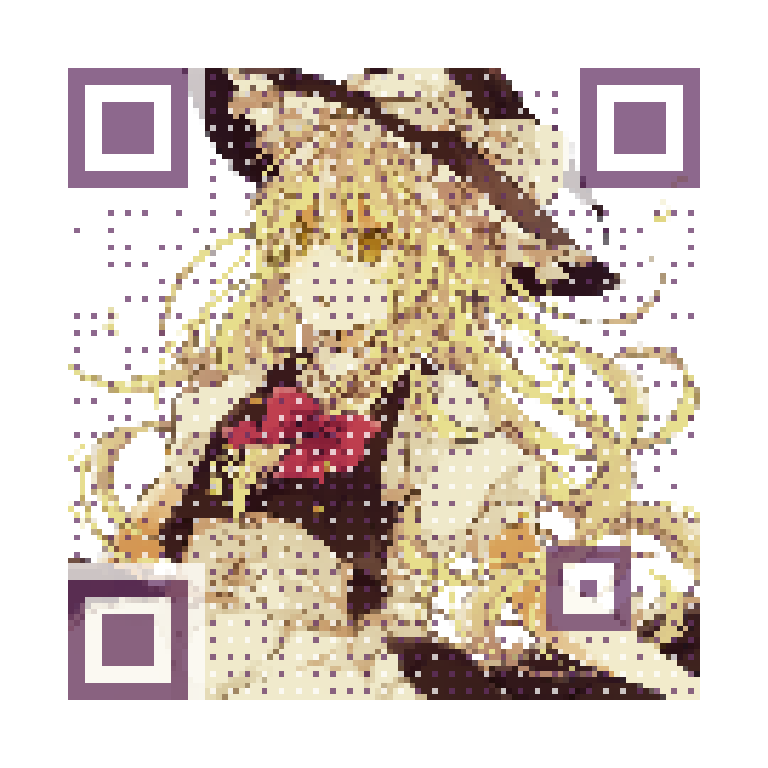
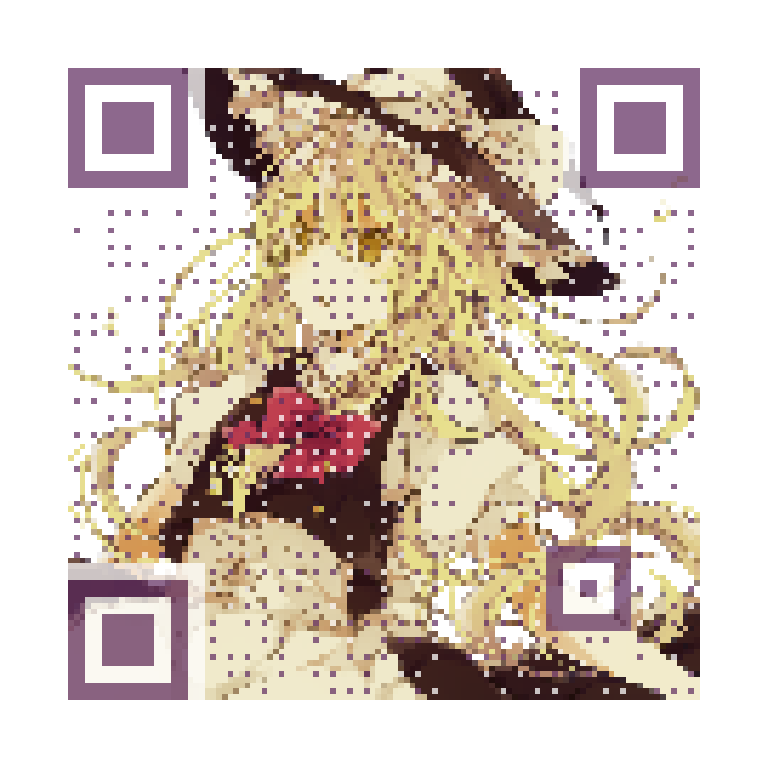
make image clear

diff --git a/CuteR/CuteR.py b/CuteR/CuteR.py
@@ -26,7 +26,7 @@ def color_replace(image, color):
 
 def produce(txt,img,ver=5,err_crt = qrcode.constants.ERROR_CORRECT_H,bri = 1.0, cont = 1.0,\
         colourful = False, rgba = (0,0,0,255),pixelate = False):
-    """
+    """Produce QR code
 
     :txt: QR text
     :img: Image
@@ -66,17 +66,21 @@ def produce(txt,img,ver=5,err_crt = qrcode.constants.ERROR_CORRECT_H,bri = 1.0, 
         else:
             img_enh = img_enh.convert('L').convert('RGBA')
     img_frame = img_qr
-
+    img_enh = img_enh.resize((img_size*10,img_size*10))
+    img_enh_l = img_enh.convert("L").resize((img_size,img_size))
+    img_frame_l = img_frame.convert("L")
 
     for x in range(0,img_size):
         for y in range(0,img_size):
-            if (x%3 ==1 and  y%3 == 1):
-                continue
             if x < 24 and (y < 24 or y > img_size-25):
                 continue
             if x > img_size-25 and (y < 24 ):
                 continue
-            img_frame.putpixel((x+12,y+12),(255,0,0,0))
+            if (x%3 ==1 and  y%3 == 1):
+                if (img_frame_l.getpixel((x+12,y+12)) > 70 and img_enh_l.getpixel((x,y)) < 185)\
+                        or (img_frame_l.getpixel((x+12,y+12)) < 185 and img_enh_l.getpixel((x,y)) > 70) :
+                    continue
+            img_frame.putpixel((x+12,y+12),(0,0,0,0))
     pos = qrcode.util.pattern_position(qr.version)
     img_qr2 = qr.make_image().convert("RGBA")
     if colourful and ( rgba != (0,0,0,0) ):
@@ -92,7 +96,6 @@ def produce(txt,img,ver=5,err_crt = qrcode.constants.ERROR_CORRECT_H,bri = 1.0, 
                 img_frame.paste(img_tmp,rect)
 
     img_res = Image.new("RGBA",(img_frame.size[0]*10,img_frame.size[1]*10),(255,255,255,255))
-    img_enh = img_enh.resize((img_size*10,img_size*10))
     img_res.paste(img_enh,(120,120),img_enh)
     img_frame = img_frame.resize((img_frame.size[0]*10,img_frame.size[1]*10))
     img_res.paste(img_frame,(0,0),img_frame)
